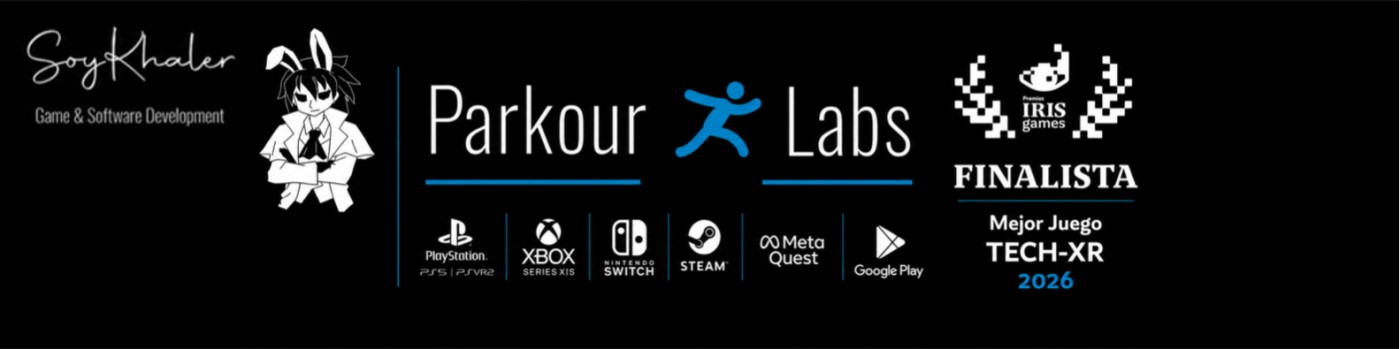
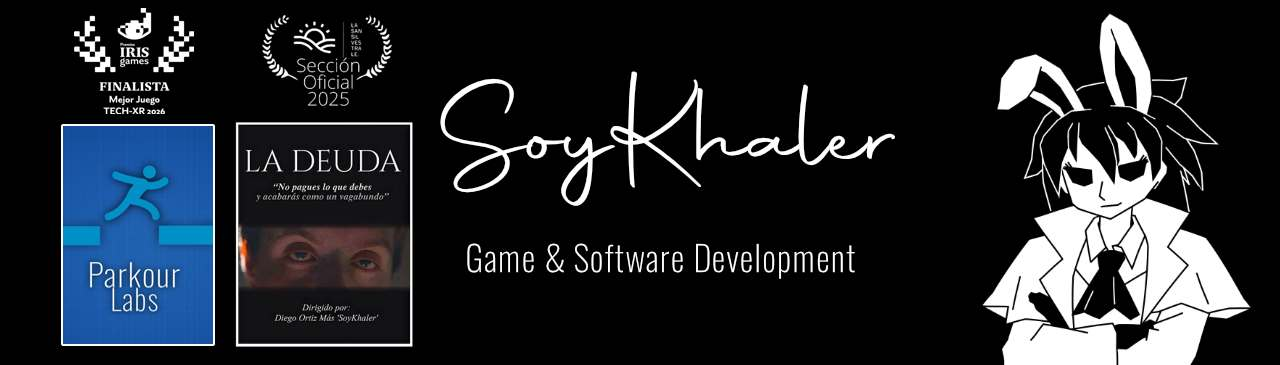
hotfix a las 7am (no he dormido nada)

diff --git a/index.html b/index.html
@@ -9,8 +9,8 @@
   <meta name="theme-color" content="#09090b">
   <link rel="preconnect" href="https://wsrv.nl" crossorigin>
   <link rel="preload" as="image" type="image/webp" fetchpriority="high"
-    href="https://wsrv.nl/?url=raw.githubusercontent.com/soykhaler/soykhaler.github.io/master/soykhaler-banner.jpg&amp;w=1216&amp;output=webp&amp;q=78"
-    imagesrcset="https://wsrv.nl/?url=raw.githubusercontent.com/soykhaler/soykhaler.github.io/master/soykhaler-banner.jpg&amp;w=400&amp;output=webp&amp;q=78 400w, https://wsrv.nl/?url=raw.githubusercontent.com/soykhaler/soykhaler.github.io/master/soykhaler-banner.jpg&amp;w=768&amp;output=webp&amp;q=78 768w, https://wsrv.nl/?url=raw.githubusercontent.com/soykhaler/soykhaler.github.io/master/soykhaler-banner.jpg&amp;w=1216&amp;output=webp&amp;q=78 1216w"
+    href="assets/banner/soykhaler-1280.webp"
+    imagesrcset="assets/banner/soykhaler-400.webp 400w, assets/banner/soykhaler-768.webp 768w, assets/banner/soykhaler-1280.webp 1280w"
     imagesizes="(max-width:600px) calc(100vw - 28px), (max-width:900px) calc(100vw - 44px), (max-width:1280px) calc(100vw - 64px), 1216px">
   <style>
     :root{color-scheme:dark;--bg:#09090b;--panel:#151518;--panel-2:#1b1b20;--line:#2a2a31;--line-2:#40404a;--text:#fafafa;--soft:#d4d4d8;--muted:#a1a1aa;--faint:#90909b;--accent:#60a5fa;--accent-2:#a78bfa;--accent-soft:#3b82f61c;--green:#4ade80;--shadow:0 24px 70px #0008;--font-sans:ui-sans-serif,system-ui,-apple-system,BlinkMacSystemFont,"Segoe UI",sans-serif;--font-display:ui-sans-serif,system-ui,-apple-system,BlinkMacSystemFont,"Segoe UI",sans-serif}
@@ -18,7 +18,7 @@
     *{box-sizing:border-box}html{scroll-behavior:smooth}body{margin:0;min-height:100vh;background:var(--bg);color:var(--text);font-family:var(--font-sans);-webkit-font-smoothing:antialiased}body:before{content:"";position:fixed;inset:0;z-index:-1;pointer-events:none;background:radial-gradient(800px 430px at 18% -10%,#2563eb18,transparent 70%),radial-gradient(700px 400px at 88% 5%,#7c3aed14,transparent 72%)}a{color:inherit;text-decoration:none}button{font:inherit;color:inherit}svg,img{display:block}.hidden{display:none!important}.sr-only{position:absolute;width:1px;height:1px;padding:0;margin:-1px;overflow:hidden;clip:rect(0,0,0,0);white-space:nowrap;border:0}
     .topbar{position:sticky;top:0;z-index:50;height:65px;border-bottom:1px solid var(--line);background:color-mix(in srgb,var(--bg) 82%,transparent);backdrop-filter:blur(14px)}.navrow{height:64px;max-width:1536px;margin:auto;padding:0 32px;display:flex;align-items:center;justify-content:space-between;position:relative}.nav-left,.nav-right,.socials{display:flex;align-items:center}.nav-left,.nav-right{gap:4px}.nav-link{font-size:14px;font-weight:500;padding:10px 12px;color:var(--soft);position:relative;white-space:nowrap}.nav-link:after{content:"";position:absolute;bottom:5px;left:12px;right:12px;height:1px;background:currentColor;transform:scaleX(0);transition:transform .25s}.nav-link:hover:after,.nav-link:focus-visible:after{transform:scaleX(1)}.brand{position:absolute;left:50%;transform:translateX(-50%);font-family:var(--font-display);font-size:20px;font-weight:800;letter-spacing:.035em;text-transform:uppercase;white-space:nowrap}.brand:hover{color:var(--accent)}.chev{display:inline-block;margin-left:3px;opacity:.55;transition:transform .2s}.drop{position:relative}.drop:hover .chev{transform:rotate(180deg)}.dropmenu{visibility:hidden;opacity:0;transform:translateY(5px);position:absolute;top:100%;left:0;min-width:195px;padding:5px;border:1px solid var(--line);border-radius:10px;background:var(--panel);box-shadow:var(--shadow);transition:.18s}.drop:hover .dropmenu,.drop:focus-within .dropmenu{visibility:visible;opacity:1;transform:none}.dropmenu a{display:block;padding:9px 12px;border-radius:6px;font-size:13px;color:var(--soft)}.dropmenu a:hover{background:var(--panel-2);color:var(--text)}.socials{gap:9px;margin-left:8px}.icon-btn{display:inline-grid;place-items:center;width:32px;height:32px;border:0;border-radius:7px;background:none;padding:6px;color:var(--muted);cursor:pointer;transition:.2s}.icon-btn:hover,.icon-btn:focus-visible{color:var(--text);background:var(--panel-2)}.icon-btn svg{width:20px;height:20px}.hamb{display:none}.mobile-menu{position:absolute;top:64px;left:0;right:0;padding:12px 16px;border-bottom:1px solid var(--line);background:var(--bg);box-shadow:var(--shadow)}.mobile-menu a{display:block;padding:10px 12px;border-radius:7px;color:var(--soft);font-size:14px}.mobile-menu a:hover{background:var(--panel-2)}
     .crumb{position:sticky;top:64px;z-index:40;background:color-mix(in srgb,var(--bg) 82%,transparent);backdrop-filter:blur(12px)}.crumbin{max-width:1536px;margin:auto;padding:10px 32px;display:flex;align-items:center;gap:7px;font-size:13px;color:var(--muted)}.crumb svg{width:16px;height:16px}.current{color:var(--text);text-decoration:underline;text-decoration-color:var(--faint);text-decoration-thickness:2px;text-underline-offset:4px}
-    .container{width:100%;max-width:1280px;margin:auto;padding-left:32px;padding-right:32px}.profile{padding-top:25px;padding-bottom:48px}.cover{overflow:hidden;border:1px solid var(--line);border-radius:16px;background:#000;box-shadow:var(--shadow)}.cover img{width:100%;height:auto;aspect-ratio:1400/349;object-fit:contain}.identity{display:grid;grid-template-columns:180px minmax(0,1fr) auto;align-items:end;gap:26px;padding:0 28px;margin-top:-54px;position:relative}.avatar{width:180px;height:180px;border-radius:50%;object-fit:cover;object-position:center;border:6px solid var(--bg);background:var(--panel);box-shadow:0 12px 35px #0007}.identity-copy{padding-bottom:8px}.eyebrow{margin:0 0 7px;color:var(--accent);font:700 11px/1 var(--font-sans);letter-spacing:.14em;text-transform:uppercase}.identity h1{margin:0;font-family:var(--font-display);font-size:42px;line-height:1.02;letter-spacing:-.02em}.real-name{margin:7px 0 0;color:var(--muted);font-size:14px}.status{margin-bottom:12px;display:inline-flex;align-items:center;gap:8px;padding:7px 11px;border:1px solid var(--line);border-radius:999px;background:color-mix(in srgb,var(--panel) 88%,transparent);color:var(--soft);font-size:12px;white-space:nowrap}.status i{width:7px;height:7px;border-radius:50%;background:var(--green);box-shadow:0 0 0 4px color-mix(in srgb,var(--green) 14%,transparent)}
+    .container{width:100%;max-width:1280px;margin:auto;padding-left:32px;padding-right:32px}.profile{padding-top:25px;padding-bottom:48px}.cover{overflow:hidden;border:1px solid var(--line);border-radius:16px;background:#000;box-shadow:var(--shadow)}.cover img{width:100%;height:auto;aspect-ratio:1280/365;object-fit:contain}.identity{display:grid;grid-template-columns:180px minmax(0,1fr) auto;align-items:end;gap:26px;padding:0 28px;margin-top:-54px;position:relative}.avatar{width:180px;height:180px;border-radius:50%;object-fit:cover;object-position:center;border:6px solid var(--bg);background:var(--panel);box-shadow:0 12px 35px #0007}.identity-copy{padding-bottom:8px}.eyebrow{margin:0 0 7px;color:var(--accent);font:700 11px/1 var(--font-sans);letter-spacing:.14em;text-transform:uppercase}.identity h1{margin:0;font-family:var(--font-display);font-size:42px;line-height:1.02;letter-spacing:-.02em}.real-name{margin:7px 0 0;color:var(--muted);font-size:14px}.status{margin-bottom:12px;display:inline-flex;align-items:center;gap:8px;padding:7px 11px;border:1px solid var(--line);border-radius:999px;background:color-mix(in srgb,var(--panel) 88%,transparent);color:var(--soft);font-size:12px;white-space:nowrap}.status i{width:7px;height:7px;border-radius:50%;background:var(--green);box-shadow:0 0 0 4px color-mix(in srgb,var(--green) 14%,transparent)}
     .intro{display:grid;grid-template-columns:minmax(0,1.55fr) minmax(285px,.75fr);gap:32px;margin-top:34px}.about-card,.quick-card{border:1px solid var(--line);border-radius:14px;background:color-mix(in srgb,var(--panel) 88%,transparent)}.about-card{padding:28px 30px}.role{font-size:15px;color:var(--muted);margin:0 0 22px;letter-spacing:.025em}.copy{max-width:72ch;color:var(--soft);line-height:1.78;font-size:15px}.copy p{margin:0 0 18px}.copy p:last-child{margin-bottom:0}.copy a{color:var(--accent);text-decoration:underline;text-underline-offset:3px}.quick-card{padding:24px}.quick-title,.label{text-transform:uppercase;letter-spacing:.11em;color:var(--faint);font-size:11px;font-weight:700;margin:0 0 16px}.fact{display:flex;gap:12px;align-items:flex-start;padding:13px 0;border-bottom:1px solid var(--line)}.fact:last-child{border-bottom:0;padding-bottom:0}.fact:first-of-type{padding-top:0}.fact svg{width:18px;height:18px;flex:0 0 auto;color:var(--accent);margin-top:1px}.fact strong{display:block;font-size:13px;font-weight:600;color:var(--soft)}.fact span{display:block;font-size:12px;color:var(--faint);margin-top:3px;line-height:1.45}.tag-row{display:flex;flex-wrap:wrap;gap:7px;margin-top:22px}.tag{display:inline-flex;align-items:center;padding:5px 9px;border:1px solid var(--line);border-radius:999px;background:var(--panel-2);font-size:11px;color:var(--muted)}
     .stats{display:grid;grid-template-columns:repeat(6,1fr);gap:12px;margin-top:16px}.stat{border:1px solid var(--line);border-radius:12px;background:var(--panel);padding:18px 16px;text-align:center;transition:.25s}.stat:hover{border-color:var(--line-2);transform:translateY(-2px)}.stat strong{display:block;font-family:var(--font-display);font-size:25px;line-height:1;color:var(--text)}.stat span{display:block;color:var(--faint);font-size:11px;margin-top:8px;line-height:1.35}
     .details{padding-bottom:96px}.rule{border:0;border-top:1px solid var(--line);margin:0 0 36px}.tabs{display:flex;gap:6px;margin-bottom:34px;border-bottom:1px solid var(--line);overflow-x:auto;scrollbar-width:none}.tabs::-webkit-scrollbar{display:none}.tab{border:0;background:none;padding:11px 17px;color:var(--muted);cursor:pointer;position:relative;font-size:14px;white-space:nowrap}.tab:hover{color:var(--soft)}.tab.active{color:var(--text)}.tab.active:after{content:"";position:absolute;left:0;right:0;bottom:-1px;height:2px;background:linear-gradient(90deg,var(--accent),var(--accent-2))}.heading{font-family:var(--font-display);font-size:25px;font-weight:700;margin:0 0 10px}.section-lead{max-width:700px;margin:0 0 34px;color:var(--muted);font-size:14px;line-height:1.65}.panel{animation:fade .3s ease-out}.timeline{border-left:2px solid var(--line);margin-left:8px;max-width:960px}.entry{position:relative;padding:0 0 33px 29px}.entry:last-child{padding-bottom:0}.dot{position:absolute;left:-7px;top:4px;width:12px;height:12px;border:2px solid var(--faint);background:var(--bg);border-radius:50%;transition:.2s}.entry:hover .dot{border-color:var(--accent);background:var(--accent)}.meta{display:flex;align-items:center;gap:13px;margin-bottom:5px}.date{font:12px ui-monospace,SFMono-Regular,Menlo,monospace;color:var(--faint)}.badge{display:inline-flex;border:1px solid var(--line-2);border-radius:999px;padding:3px 8px;color:var(--muted);font-size:10px;letter-spacing:.04em;white-space:nowrap}.entry h3{font-size:16px;font-weight:600;color:var(--soft);margin:5px 0}.entry p{max-width:850px;font-size:13px;line-height:1.6;color:var(--muted);margin:0}.entry a{color:var(--accent)}
@@ -33,9 +33,12 @@
 
     .portfolio-section + .portfolio-section{margin-top:38px}.portfolio-heading{font-size:19px;margin:0 0 18px;color:var(--soft)}.portfolio-grid{display:grid;grid-template-columns:repeat(3,minmax(0,1fr));gap:16px}.portfolio-card{padding:0;min-height:0}.portfolio-image{width:100%;height:auto;aspect-ratio:16/10;object-fit:contain;background:#101014;border-bottom:1px solid var(--line)}.portfolio-body{padding:22px;display:flex;flex:1;flex-direction:column}.portfolio-body p{margin:12px 0 20px}.portfolio-section .project h4{font-size:17px;margin:0;color:var(--soft)}.portfolio-card .arrow{flex-shrink:0}.portfolio-reel{display:grid;grid-template-columns:minmax(0,1.2fr) minmax(0,1fr);padding:0;margin-bottom:24px;min-height:0}.portfolio-reel img{width:100%;height:100%;aspect-ratio:16/9;object-fit:cover}.portfolio-reel .portfolio-body{justify-content:center;padding:28px}.portfolio-reel .tag-row{margin-top:0}.project-links{display:flex;flex-wrap:wrap;gap:12px;margin-top:auto}.project-links a{color:var(--accent);font-size:12px;text-decoration:underline;text-underline-offset:4px}.partners-grid{display:grid;grid-template-columns:repeat(4,minmax(0,1fr));gap:16px;list-style:none;padding:0;margin:0}.partner{margin:0;padding:24px 18px;text-align:center;border:1px solid var(--line);border-radius:13px;background:var(--panel)}.partner-logo{display:flex;align-items:center;justify-content:center;height:100px;margin-bottom:16px;padding:16px;border-radius:9px;background:#fff}.partner-logo img{max-width:100%;width:160px;height:68px;object-fit:contain}.partner-logo.dark-logo{background:#101014}.partner span{color:var(--soft);font-size:13px}.panel{scroll-margin-top:125px}
     @media(max-width:900px){.portfolio-grid,.partners-grid{grid-template-columns:repeat(2,minmax(0,1fr))}}
-    @media(max-width:600px){.portfolio-grid,.portfolio-reel{grid-template-columns:1fr}.portfolio-card,.portfolio-reel{padding:0}.portfolio-body,.portfolio-reel .portfolio-body{padding:20px}.partner{padding:14px 10px}.partner-logo{padding:10px;height:86px}.partner span{font-size:12px}}
+    @media(max-width:600px){.portfolio-grid,.portfolio-reel,.interactive-grid{grid-template-columns:1fr}.portfolio-card,.portfolio-reel{padding:0}.portfolio-body,.portfolio-reel .portfolio-body{padding:20px}.partner{padding:14px 10px}.partner-logo{padding:10px;height:86px}.partner span{font-size:12px}}
     .photography-stats{grid-template-columns:repeat(3,minmax(0,1fr));margin:0 0 24px}.photography-card{margin:0}.photography-card img{width:100%;height:auto;aspect-ratio:4/3;object-fit:contain;background:#101014;border-bottom:1px solid var(--line)}.photography-card .portfolio-body{padding:16px 20px}.photography-card h4{font-size:14px!important}.photography-footer{margin-top:24px}.partner-logo.woxter-logo{background:#ff007f}.partner-logo.woxter-logo img{height:90px;width:90px}
+    .interactive-grid{grid-template-columns:repeat(2,minmax(0,1fr));width:100%}.interactive-stills{display:grid;grid-template-columns:1fr;gap:10px;padding:12px}.interactive-still{min-width:0;margin:0;overflow:hidden;border:1px solid var(--line);border-radius:9px;background:var(--panel-2)}.interactive-image{position:relative;aspect-ratio:4/3;overflow:hidden}.interactive-image img{position:absolute;inset:0;display:block;width:100%;height:100%;object-fit:contain}.interactive-still figcaption{padding:6px 8px;color:var(--faint);font-size:10px;font-weight:600;letter-spacing:.06em;text-transform:uppercase}.interactive-grid .portfolio-body{padding:16px}.interactive-grid .portfolio-body p{margin:9px 0 14px}.designs-grid{display:grid;grid-template-columns:repeat(4,minmax(0,1fr));gap:14px;align-items:stretch}.design-tile{display:flex;min-width:0;flex-direction:column;overflow:hidden;border:1px solid var(--line);border-radius:12px;background:var(--panel);transition:border-color .2s,transform .2s}.design-tile:hover{border-color:var(--line-2);transform:translateY(-2px)}.design-tile-image{width:100%;aspect-ratio:1;overflow:hidden;background:var(--panel-2)}.design-tile-image img{display:block;width:100%;height:100%;object-fit:contain}.design-tile-orthographic img{object-fit:cover}.design-tile-copy{flex:1;padding:12px 14px}.design-tile h4{margin:0;color:var(--soft);font-size:13px;line-height:1.4}.design-tile p{margin:5px 0 0;color:var(--faint);font-size:11px;line-height:1.45}
     @media(max-width:600px){.photography-stats{gap:8px}.photography-stats .stat{padding:16px 8px}.photography-stats .stat strong{font-size:21px}.photography-stats .stat span{font-size:10px}}
+    @media(max-width:900px){.designs-grid{grid-template-columns:repeat(2,minmax(0,1fr))}}
+    @media(max-width:600px){.designs-grid{gap:10px}.design-tile-copy{padding:10px}.interactive-grid{grid-template-columns:1fr}}
   </style>
 </head>
 <body>
@@ -66,12 +69,12 @@
   <main id="inicio">
     <section class="container profile" id="sobre-mi">
       <div class="cover"><img
-        src="https://wsrv.nl/?url=raw.githubusercontent.com/soykhaler/soykhaler.github.io/master/soykhaler-banner.jpg&amp;w=1216&amp;output=webp&amp;q=78"
-        srcset="https://wsrv.nl/?url=raw.githubusercontent.com/soykhaler/soykhaler.github.io/master/soykhaler-banner.jpg&amp;w=400&amp;output=webp&amp;q=78 400w, https://wsrv.nl/?url=raw.githubusercontent.com/soykhaler/soykhaler.github.io/master/soykhaler-banner.jpg&amp;w=768&amp;output=webp&amp;q=78 768w, https://wsrv.nl/?url=raw.githubusercontent.com/soykhaler/soykhaler.github.io/master/soykhaler-banner.jpg&amp;w=1216&amp;output=webp&amp;q=78 1216w"
+        src="assets/banner/soykhaler-1280.webp"
+        srcset="assets/banner/soykhaler-400.webp 400w, assets/banner/soykhaler-768.webp 768w, assets/banner/soykhaler-1280.webp 1280w"
         sizes="(max-width:600px) calc(100vw - 28px), (max-width:900px) calc(100vw - 44px), (max-width:1280px) calc(100vw - 64px), 1216px"
-        width="1400" height="349" loading="eager" fetchpriority="high" decoding="async"
+        width="1280" height="365" loading="eager" fetchpriority="high" decoding="async"
         onerror="this.onerror=null;this.removeAttribute('srcset');this.src='soykhaler-banner.jpg'"
-        alt="SoyKhaler y Parkour Labs, finalista a Mejor Juego TECH-XR 2026"></div>
+        alt="SoyKhaler · Game &amp; Software Development, con Parkour Labs y La Deuda"></div>
       <div class="identity">
         <img class="avatar"
           src="https://wsrv.nl/?url=raw.githubusercontent.com/soykhaler/soykhaler.github.io/master/soykhaler-portrait.jpg&amp;w=180&amp;output=webp&amp;q=82"
@@ -196,6 +199,26 @@
           </div>
           <div class="photography-footer"><a class="pill" href="https://pixabay.com/users/soykhaler-6351521/" target="_blank" rel="noreferrer">Ver toda mi galería en Pixabay <span aria-hidden="true">↗</span></a></div>
         </section>
+        <section class="portfolio-section" aria-labelledby="portfolio-diseno-grafico">
+          <h3 class="portfolio-heading" id="portfolio-diseno-grafico">Diseño gráfico y negocios locales</h3>
+          <p class="section-lead">Ilustración, identidad visual y portadas que he realizado.</p>
+          <div class="designs-grid">
+            <article class="design-tile"><div class="design-tile-image design-tile-orthographic"><img src="assets/portfolio/local/ilustracion-3d.webp" alt="Diseño ortográfico estilizado de un ordenador sonriente sobre una mesa" width="1200" height="675" loading="lazy" decoding="async"></div><div class="design-tile-copy"><h4>Diseño ortográfico estilizado</h4></div></article>
+            <article class="design-tile"><div class="design-tile-image"><img src="assets/portfolio/local/catrina-aqualon.webp" alt="Diseño de identidad para Catrina Aqualon" width="255" height="255" loading="lazy" decoding="async"></div><div class="design-tile-copy"><h4>Catrina Aqualon</h4><p>Diseño para negocio local</p></div></article>
+            <article class="design-tile"><div class="design-tile-image"><img src="assets/portfolio/local/portada-soundbreak.webp" alt="Portada musical Put Your Hands Up, diseño para SoundBreakRecords" width="335" height="332" loading="lazy" decoding="async"></div><div class="design-tile-copy"><h4>SoundBreakRecords</h4><p>Diseño de portada musical</p></div></article>
+            <a class="design-tile" href="https://www.amazon.es/Sue%C3%B1o-Torero-Antonia-Cort%C3%A9s/dp/B07J69SXV3" target="_blank" rel="noreferrer"><div class="design-tile-image"><img src="assets/portfolio/local/sueno-torero.jpg" alt="Portada del disco Sueño Torero de Antonia Cortés, fotografía y diseño de SoyKhaler" width="600" height="600" loading="lazy" decoding="async"></div><div class="design-tile-copy"><h4>Sueño Torero · Antonia Cortés</h4><p>Fotografía y diseño de portada · Amazon ↗</p></div></a>
+          </div>
+        </section>
+
+        <section class="portfolio-section" aria-labelledby="portfolio-video-interactivo">
+          <h3 class="portfolio-heading" id="portfolio-video-interactivo">Vídeo interactivo</h3>
+          <p class="section-lead">Dos de mis proyectos destacados, con imágenes de making of.</p>
+          <div class="portfolio-grid interactive-grid">
+            <article class="project portfolio-card"><div class="interactive-stills"><figure class="interactive-still"><div class="interactive-image"><img src="assets/portfolio/interactive/ladeuda-cover.webp" alt="Portada de La Deuda en itch.io" width="630" height="500" loading="lazy" decoding="async"></div><figcaption>Portada</figcaption></figure><figure class="interactive-still"><div class="interactive-image"><img src="assets/portfolio/interactive/ladeuda-3.webp" alt="Making of de La Deuda durante el rodaje" width="2048" height="1537" loading="lazy" decoding="async"></div><figcaption>Making of</figcaption></figure></div><div class="portfolio-body"><div class="project-top"><h4>La Deuda</h4><span class="arrow" aria-hidden="true">↗</span></div><p>Película interactiva creada para Crowned Game Jam 2025. Dirección, guion y programación.</p><div class="tag-row"><a class="tag" href="https://soykhaler.itch.io/ladeuda" target="_blank" rel="noreferrer">Ver en itch.io ↗</a></div></div></article>
+            <article class="project portfolio-card"><div class="interactive-stills"><figure class="interactive-still"><div class="interactive-image"><img src="assets/portfolio/interactive/el-enviado-cover.webp" alt="Portada de El Enviado en itch.io" width="630" height="500" loading="lazy" decoding="async"></div><figcaption>Portada</figcaption></figure><figure class="interactive-still"><div class="interactive-image"><img src="assets/portfolio/interactive/el-enviado-1.webp" alt="Fotografía del equipo de El Enviado durante la producción" width="1599" height="899" loading="lazy" decoding="async"></div><figcaption>Making of</figcaption></figure></div><div class="portfolio-body"><div class="project-top"><h4>El Enviado</h4><span class="arrow" aria-hidden="true">↗</span></div><p>Aventura narrativa creada para el concurso de homebrew de PS Vita ReiHEN.</p><div class="tag-row"><a class="tag" href="https://soykhaler.itch.io/el-enviado" target="_blank" rel="noreferrer">Ver en itch.io ↗</a></div></div></article>
+          </div>
+        </section>
+
         <section class="portfolio-section" aria-labelledby="portfolio-software">
           <h3 class="portfolio-heading" id="portfolio-software">Software</h3>
           <div class="portfolio-grid">

diff --git a/assets/portfolio/SOURCES.md b/assets/portfolio/SOURCES.md
@@ -27,3 +27,18 @@ Fotografías e ilustración seleccionadas por SoyKhaler; copias locales optimiza
 - https://cdn.pixabay.com/photo/2021/12/03/21/56/lantern-6843880_1280.jpg
 - https://cdn.pixabay.com/photo/2021/09/26/20/49/world-6658881_1280.jpg
 - https://cdn.pixabay.com/photo/2021/12/03/21/56/lamps-6843881_1280.jpg
+
+## Diseño gráfico local
+
+- `local/ilustracion-3d.webp`, `local/catrina-aqualon.webp` y `local/portada-soundbreak.webp`: archivos del directorio local `/home/soykhaler/Desktop/diseños/`.
+- `local/sueno-torero.jpg`: portada de *Sueño Torero* de Antonia Cortés, obtenida del catálogo de Apple Music. La ficha enlaza al producto de Amazon indicado por el autor.
+
+## Vídeo interactivo
+
+- `interactive/ladeuda-3.webp`: fotografía de making of de La Deuda, https://soykhaler.itch.io/ladeuda.
+- `interactive/el-enviado-1.webp`: fotografía del equipo de El Enviado, https://soykhaler.itch.io/el-enviado.
+- Portadas oficiales de itch.io guardadas como `interactive/ladeuda-cover.webp` y `interactive/el-enviado-cover.webp`.
+
+## Banner principal
+
+Banner facilitado por SoyKhaler, coincidente con `/home/soykhaler/Desktop/THINGS/banner_itch.jpg`. Copia en `soykhaler-banner.jpg` y variantes WebP en `assets/banner/`.
